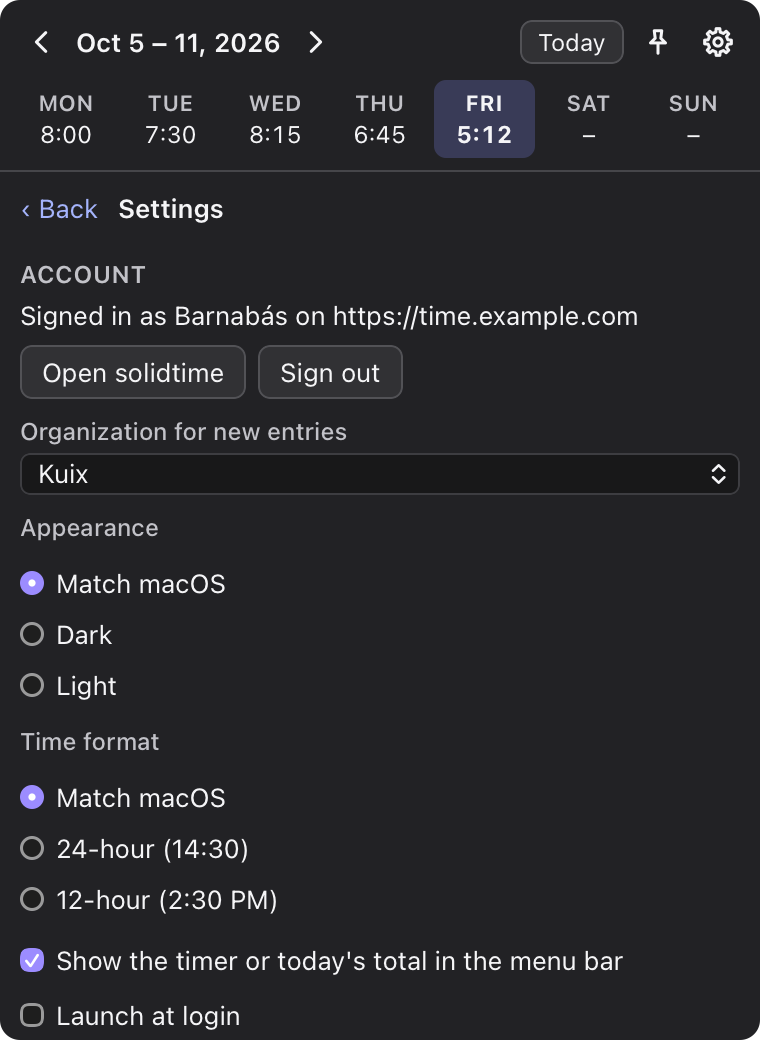
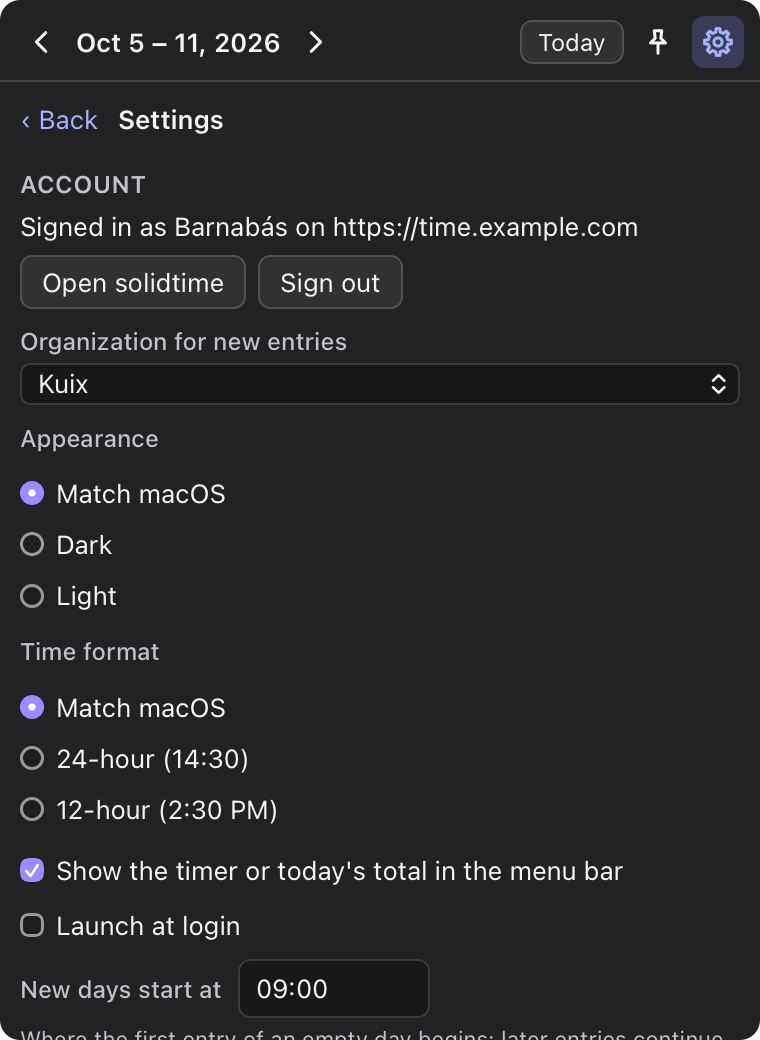
Settings without the week strip
The days have nothing to do with Settings, so Settings takes the week
strip's place too. It's no longer inside the day tab panel either, which
VoiceOver announced as the selected day.

diff --git a/e2e/tests/panel.spec.ts b/e2e/tests/panel.spec.ts
@@ -272,15 +272,18 @@ test("Escape hides the panel", async ({ page }) => {
   expect(await invoked(page, "panel_hide")).toHaveLength(1);
 });
 
-test("settings open with ⌘, and close with Escape", async ({ page }) => {
+test("settings open with ⌘, in place of the days, and close with Escape", async ({ page }) => {
   await open(page);
+  const days = page.getByRole("tablist", { name: "Days of the week" });
   await page.keyboard.press("Meta+Comma");
   await expect(page.getByRole("heading", { name: "Settings" })).toBeVisible();
+  await expect(days).toHaveCount(0);
   await expect(page.getByRole("button", { name: "Show or hide Solidbar ⌥⌘T", exact: true })).toBeVisible();
   await page.screenshot({ path: "screenshots/settings.png", fullPage: true });
   await expectAccessible(page);
   await page.keyboard.press("Escape");
   await expect(page.locator("#entry-e1")).toBeFocused();
+  await expect(days).toBeVisible();
 });
 
 test("the gear opens Settings, and pressed again goes back to the list", async ({ page }) => {

diff --git a/crates/ui/styles/app.css b/crates/ui/styles/app.css
@@ -579,12 +579,17 @@ code {
 
 /* ---------------------------------------------------------------- Day */
 
-.day-panel {
+.day-panel,
+.settings-panel {
   flex: 1;
   min-height: 0;
   overflow-y: auto;
   padding: 8px 10px;
   position: relative;
+}
+
+.settings-panel {
+  border-top: 1px solid var(--separator);
 }
 
 .day-heading {

diff --git a/crates/ui/src/shell.rs b/crates/ui/src/shell.rs
@@ -34,31 +34,37 @@ pub fn Shell() -> impl IntoView {
         week.get()?.days.into_iter().find(|day| day.date == date)
     });
     let screen = Memo::new(move |_| store.screen.get());
+    let in_settings = Memo::new(move |_| screen.get() == Screen::Settings);
 
     view! {
         <div class="shell">
             <Header week />
             <Banners />
-            <WeekStrip week selected_date />
-            <div
-                class="day-panel"
-                class:with-form=move || screen.get() == Screen::Form
-                id="day-panel"
-                role="tabpanel"
-                aria-labelledby=move || format!("tab-{}", selected_date.get())
+            // Settings has nothing to do with the days, so it takes the week strip's place too.
+            <Show
+                when=move || !in_settings.get()
+                fallback=|| view! { <div class="settings-panel"><Settings /></div> }
             >
-                {move || match screen.get() {
-                    Screen::List => view! { <DayList day /> }.into_any(),
-                    Screen::Form => {
-                        store
-                            .form
-                            .get_untracked()
-                            .map(|init| view! { <EntryForm init /> }.into_any())
-                            .unwrap_or_else(|| ().into_any())
-                    }
-                    Screen::Settings => view! { <Settings /> }.into_any(),
-                }}
-            </div>
+                <WeekStrip week selected_date />
+                <div
+                    class="day-panel"
+                    class:with-form=move || screen.get() == Screen::Form
+                    id="day-panel"
+                    role="tabpanel"
+                    aria-labelledby=move || format!("tab-{}", selected_date.get())
+                >
+                    {move || match screen.get() {
+                        Screen::Form => {
+                            store
+                                .form
+                                .get_untracked()
+                                .map(|init| view! { <EntryForm init /> }.into_any())
+                                .unwrap_or_else(|| ().into_any())
+                        }
+                        _ => view! { <DayList day /> }.into_any(),
+                    }}
+                </div>
+            </Show>
             <Show when=move || screen.get() == Screen::List>
                 <Footer week />
             </Show>
